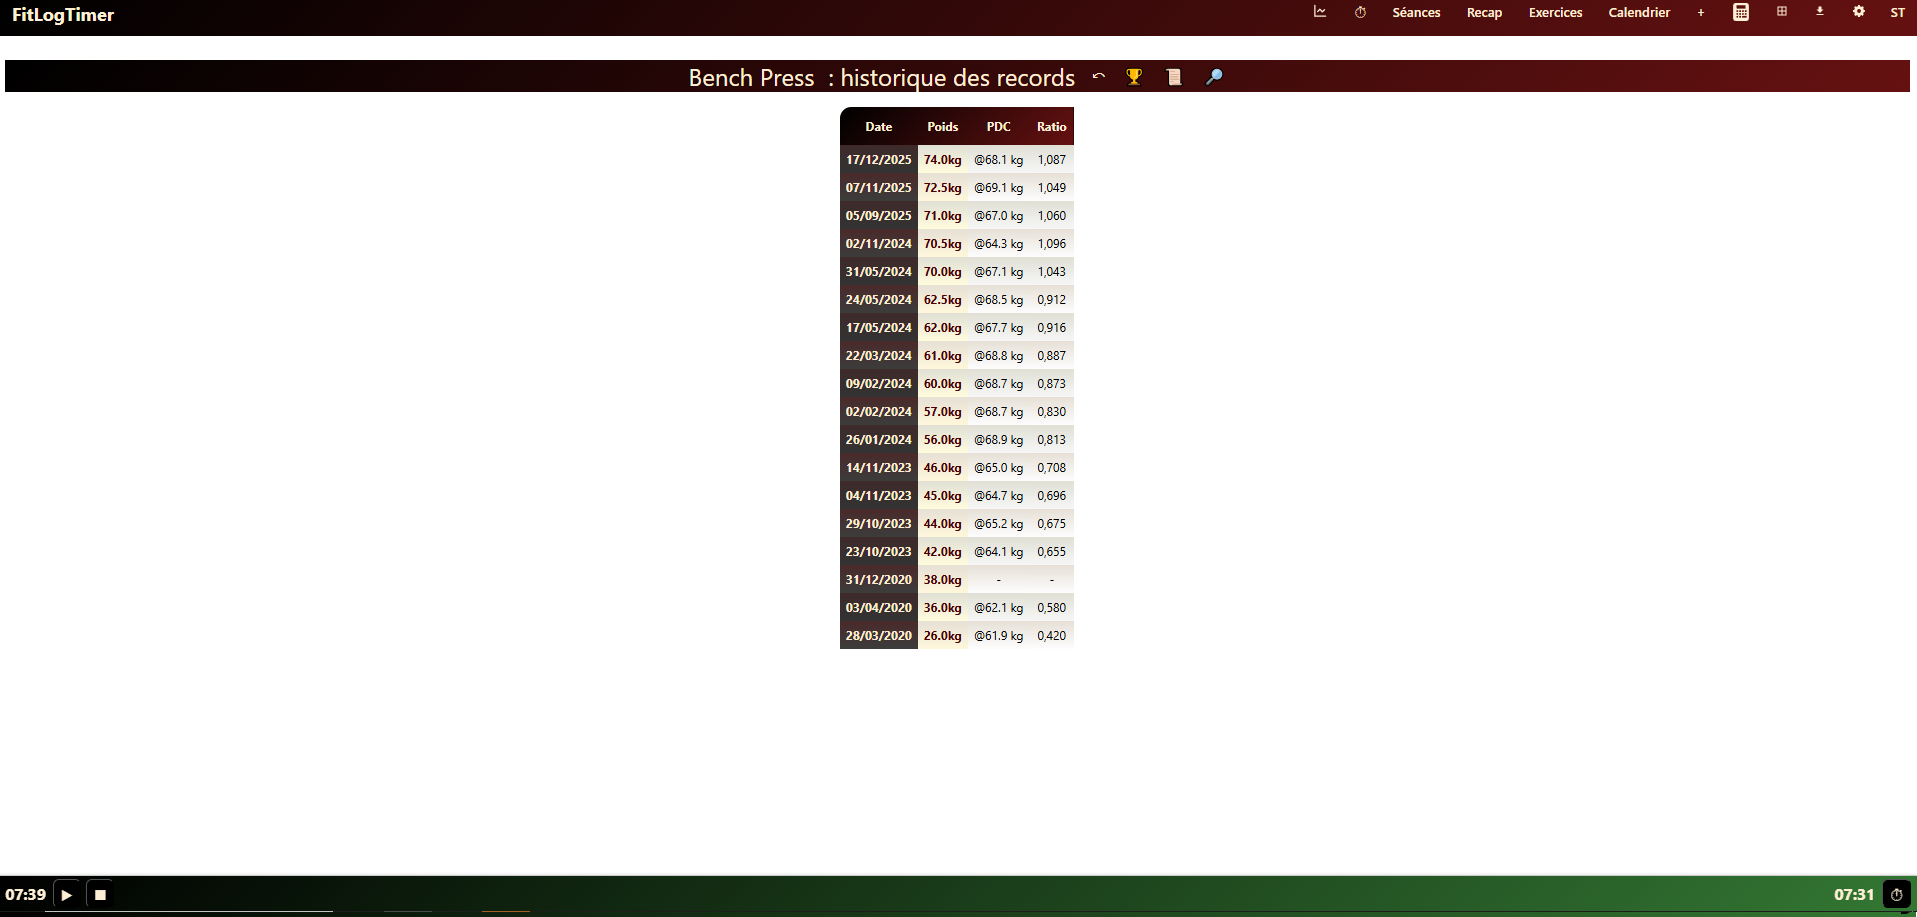
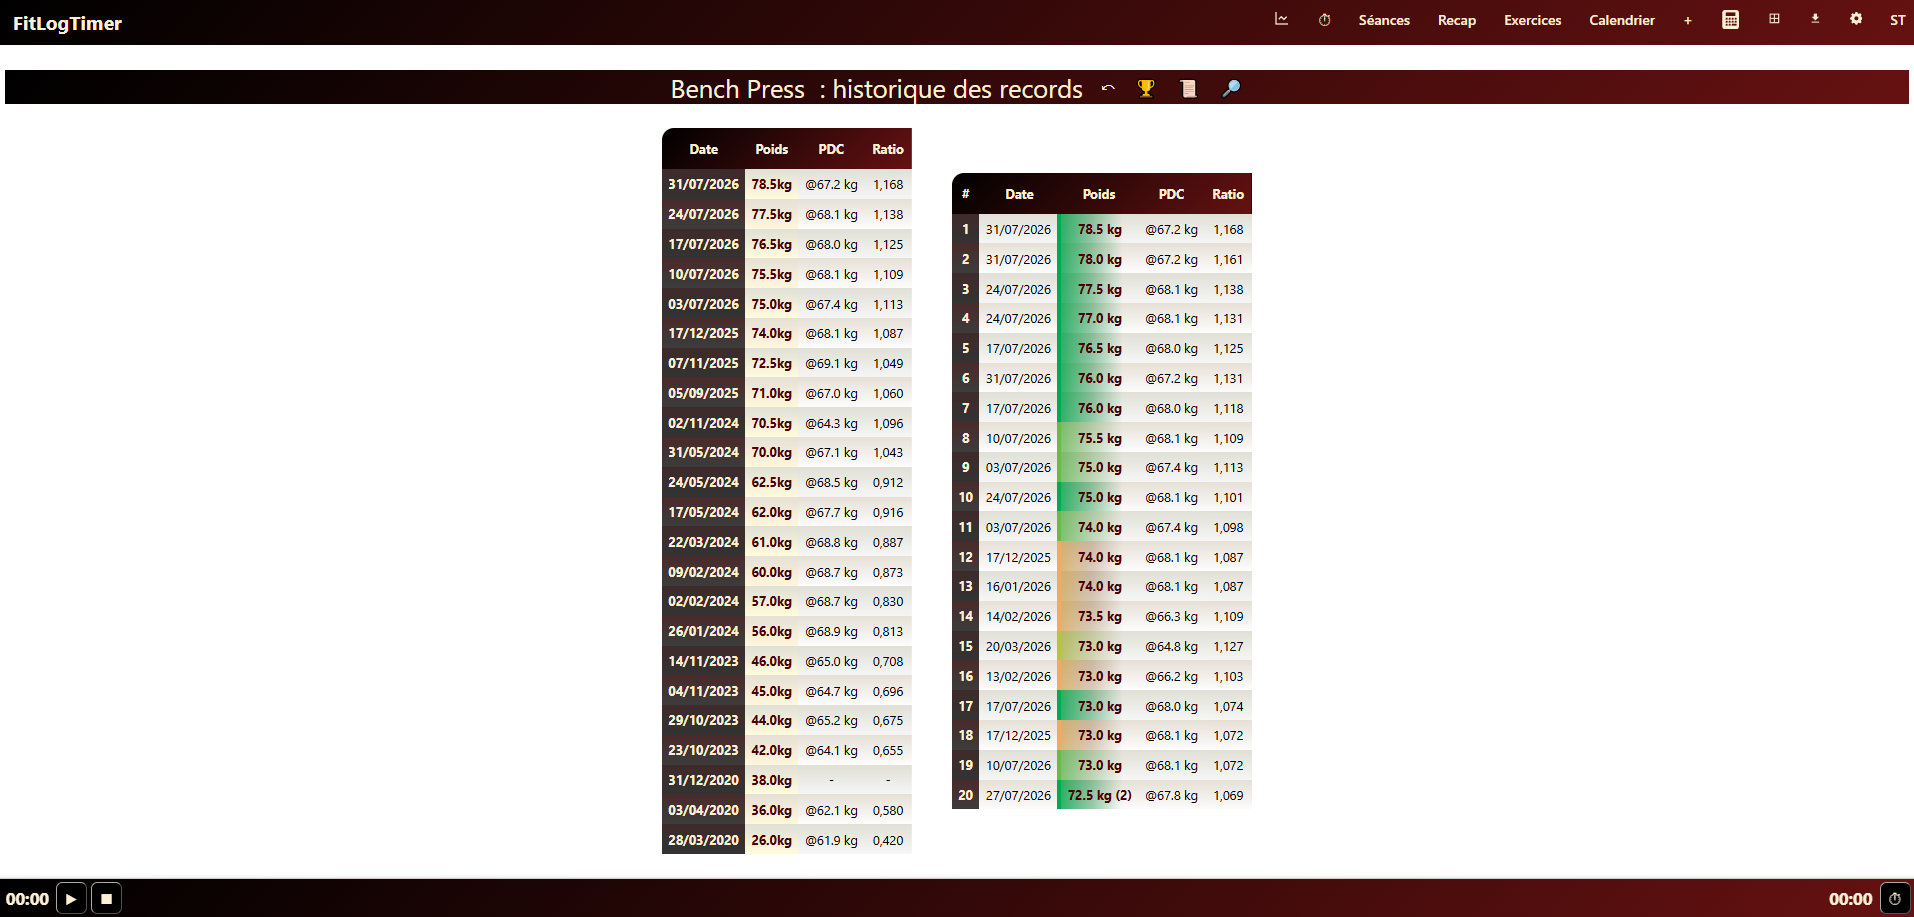
update readme screenshots

Changed region(s): [[0.0, 0.0, 1.0, 1.0]]

diff --git a/screenshots/index.html b/screenshots/index.html
@@ -98,9 +98,9 @@
     </div>
     <div>
         <a href="histo_records.png" target="_blank" title="Cliquez pour agrandir">
-            <img src="histo_records.png" alt="Historique des records d'un exercice">
+            <img src="histo_records.png" alt="Historique des records et Top 20 d'un exercice">
         </a>
-        <p>Historique des records d'un exercice</p>
+        <p>Historique des records et Top 20 d'un exercice</p>
     </div>
     <div>
         <a href="volume.png" target="_blank" title="Cliquez pour agrandir">
